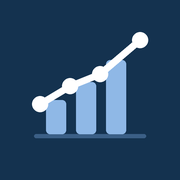
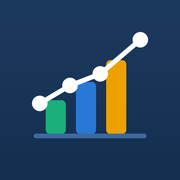
App-icoon in de kleuren van de app (groen, blauw, oranje)
Claude-Session: https://claude.ai/code/session_017HSC2kS8K3yvLFHWnspx6p

Changed region(s): [[0.1667, 0.1944, 0.8333, 0.7778], [0.1667, 0.5833, 0.1944, 0.6111]]

diff --git a/index.html b/index.html
@@ -9,8 +9,8 @@
 <meta name="apple-mobile-web-app-title" content="Financiën">
 <meta name="apple-mobile-web-app-capable" content="yes">
 <meta name="apple-mobile-web-app-status-bar-style" content="black-translucent">
-<link rel="apple-touch-icon" href="icon-180.png">
-<link rel="icon" type="image/png" href="icon-180.png">
+<link rel="apple-touch-icon" href="icon-180.png?v=2">
+<link rel="icon" type="image/png" href="icon-180.png?v=2">
 <link rel="manifest" href="manifest.webmanifest">
 <script src="https://cdnjs.cloudflare.com/ajax/libs/xlsx/0.18.5/xlsx.full.min.js" integrity="sha512-r22gChDnGvBylk90+2e/ycr3RVrDi8DIOkIGNhJlKfuyQM4tIRAI062MaV8sfjQKYVGjOBaZBOA87z+IhZE9DA==" crossorigin="anonymous" referrerpolicy="no-referrer" defer></script>
 <style>
